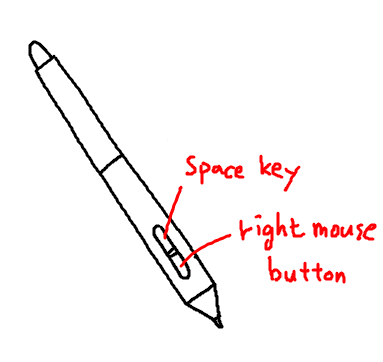
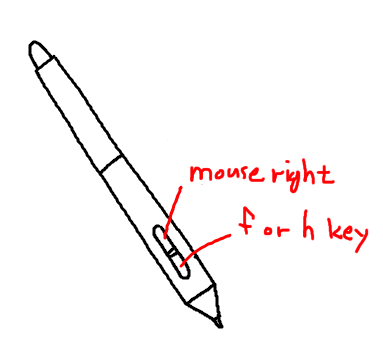
upd9.3

Changed region(s): [[0.6031, 0.5773, 1.0, 0.7901], [0.4883, 0.4254, 0.8903, 0.547]]

diff --git a/jp.html b/jp.html
@@ -34,9 +34,9 @@
       <h2 id="c0">必要セッティング</h2><hr>
       ワコムドライバー設定のマッピングの<b>「デジタルイング機能を使う」のチェックを外してください。</b> これをしないと線を描くのが少し変になります。<br>
       ワコム以外のタブレットにはテストしていません。<br>
-      まず、タブレットのペンのボタンの設定を下の画像のようにしてください。<br>
-      マウス右クリック操作に最適化しています。<p></p>
+      下の画像はタブレットのペンのボタンのおすすめ設定です。<br>
       <img src="img/pensetting_jp.png"><p></p>
+  
 
       <h2 id="c1">ツールの選択方法</h2><hr>
       マウス右ボタンを押すとツールメニューが現れます。<br>
@@ -67,65 +67,59 @@
         </tr>
         <tr>
           <td class="tg-0pky"><b class="tds">消しゴム</b></td>
-          <td class="tg-0pky"><kbd>D</kbd> - <kbd class="ls">J</kbd></td>
+          <td class="tg-0pky"><kbd>D</kbd> or <kbd class="ls">J</kbd></td>
           <td class="tg-0pky"><b class="tds">Lassoツール</b></td>
-          <td class="tg-0pky"><kbd>R</kbd> - <kbd class="ls">Y</kbd></td>
+          <td class="tg-0pky"><kbd>R</kbd> or <kbd class="ls">Y</kbd></td>
         </tr>
         <tr>
           <td class="tg-0pky"><b class="tds">消しゴムー直線ツール</b></td>
-          <td class="tg-0pky"><kbd class="ns">Shift</kbd>+<kbd>D</kbd> - <kbd class="ls">J</kbd></td>
+          <td class="tg-0pky"><kbd class="ns">Shift</kbd>+<kbd>D</kbd> or <kbd class="ls">J</kbd></td>
           <td class="tg-0pky"><b class="tds">直線ツール</b></td>
           <td class="tg-0pky"><kbd class="ns">Shift</kbd></td>
         </tr>
         <tr>
-          <td class="tg-0pky"><b class="tds">消しゴムサイズの調節</b></td>
-          <td class="tg-0pky"><kbd>D</kbd> + <kbd>F</kbd>, <kbd>V</kbd> - <kbd class="ls">J</kbd> + <kbd class="ls">H</kbd>, <kbd class="ls">N</kbd></td>
-          <td class="tg-0pky"><b class="tds">ペンサイズの調節</b></td>
-          <td class="tg-0pky"><kbd>F</kbd>, <kbd>V</kbd> - <kbd class="ls">H</kbd>, <kbd class="ls">N</kbd></td>
-        </tr>
-        <tr>
-          <td class="tg-0pky"><b class="tds">消しゴム透明度の調節</b></td>
-          <td class="tg-0pky"><kbd>D</kbd> - <kbd class="ls">J</kbd> + <kbd class="ns">G</kbd>&nbsp; <kbd class="ns">B</kbd></td>
-          <td class="tg-0pky"><b class="tds">ペンの透明度調節</b></td>
-          <td class="tg-0pky"><kbd class="ns">G</kbd>&nbsp; <kbd class="ns">B</kbd></td>
+          <td class="tg-0pky"><b class="tds">Pen Option窓をカーソルに移動 / 位置リセット</b></td>
+          <td class="tg-0pky"><kbd>F</kbd> or <kbd class="ls">H</kbd></td>
+          <td class="tg-0pky"></td>
+          <td class="tg-0pky"></td>
         </tr>
         <tr>
           <td class="tg-0pky"><b class="tds">ズームツール</b></td>
-          <td class="tg-0pky"><kbd>W</kbd> - <kbd class="ls">I</kbd></td>
+          <td class="tg-0pky"><kbd>W</kbd> or <kbd class="ls">I</kbd></td>
           <td class="tg-0pky"><b class="tds">キャンバス移動</b></td>
           <td class="tg-0pky"><kbd class="ns class="ns"">Space</kbd></td>
         </tr>
         <tr>
           <td class="tg-0pky"><b class="tds">キャンバス左右反転</b></td>
-          <td class="tg-0pky"><kbd>A</kbd> - <kbd class="ls">L</kbd></td>
+          <td class="tg-0pky"><kbd>A</kbd> or <kbd class="ls">L</kbd></td>
           <td class="tg-0pky"><b class="tds">キャンバス回転</b></td>
-          <td class="tg-0pky"><kbd>S</kbd> - <kbd class="ls">K</kbd></td>
+          <td class="tg-0pky"><kbd>S</kbd> or <kbd class="ls">K</kbd></td>
         </tr>
         <tr>
         </tr>
         <tr>
-          <td class="tg-0pky"><b class="tds">色選択窓ON/OFF</b></td>
-          <td class="tg-0pky"><kbd>Q</kbd> - <kbd class="ls">O</kbd></td>
+          <td class="tg-0pky"><b class="tds">色塗りペン</b></td>
+          <td class="tg-0pky"><kbd>V</kbd> or <kbd class="ls">N</kbd></td>
           <td class="tg-0pky"><b class="tds">イメージ移動</b></td>
-          <td class="tg-0pky"><kbd>E</kbd> - <kbd class="ls">Y</kbd></td>
+          <td class="tg-0pky"><kbd>E</kbd> or <kbd class="ls">Y</kbd></td>
         </tr>
         <tr>
           <td class="tg-0pky"><b class="tds">スポイトツール</b></td>
-          <td class="tg-0pky"><kbd>C</kbd> - <kbd class="ls">M</kbd></td>
+          <td class="tg-0pky"><kbd>C</kbd> or <kbd class="ls">M</kbd></td>
           <td class="tg-0pky"></td>
           <td class="tg-0pky"></td>
         </tr>
         <tr>
           <td class="tg-0pky"><b class="tds">Undo</b></td>
-          <td class="tg-0pky"><kbd>Z</kbd> - <kbd class="ls">.</kbd></td>
+          <td class="tg-0pky"><kbd>Z</kbd> or <kbd class="ls">.</kbd></td>
           <td class="tg-0pky"><b class="tds">Draw　Mode</b></td>
-            <td class="tg-0pky"><kbd>1</kbd> - <kbd class="ls">7</kbd></td>
+            <td class="tg-0pky"><kbd>1</kbd> or <kbd class="ls">7</kbd></td>
         </tr>
         <tr>
           <td class="tg-0pky"><b class="tds">Redo</b></td>
-          <td class="tg-0pky"><kbd>X</kbd> - <kbd class="ls">,</kbd></td>
+          <td class="tg-0pky"><kbd>X</kbd> or <kbd class="ls">,</kbd></td>
           <td class="tg-0pky"><b class="tds">リプレイモード</b></td>
-          <td class="tg-0pky"><kbd>2</kbd> - <kbd class="ls">8</kbd></td>
+          <td class="tg-0pky"><kbd>2</kbd> or <kbd class="ls">8</kbd></td>
         </tr>
         <tr>
           <td class="tg-0pky"><b class="tds">セーブ</b></td>
@@ -137,19 +131,19 @@
           <td class="tg-0pky"><b class="tds">新しいファイル名でセーブ</b></td>
           <td class="tg-0pky"><kbd class="ns">Ctrl</kbd>+<kbd class="ns">Shift</kbd>+<kbd class="ns">S</kbd></td>
           <td class="tg-0pky"><b class="tds">再生速度調節</b></td>
-          <td class="tg-0pky"><kbd class="ns">&uarr;</kbd>&nbsp; <kbd class="ns">&darr;</kbd></td>
+          <td class="tg-0pky"><kbd class="ns">&uarr;</kbd>, <kbd class="ns">&darr;</kbd></td>
         </tr>
         <tr>
           <td class="tg-0pky"><b class="tds">キャプチャーモード</b></td>
           <td class="tg-0pky"><kbd class="ns">Alt</kbd>+<kbd class="ns">S</kbd></td>
           <td class="tg-0pky"><b class="tds">ストローク単位で探索</b></td>
-          <td class="tg-0pky"><kbd class="ns">&larr;</kbd>&nbsp; <kbd class="ns">&rarr;</kbd></td>
+          <td class="tg-0pky"><kbd class="ns">&larr;</kbd>, <kbd class="ns">&rarr;</kbd></td>
         </tr>
         <tr>
           <td class="tg-0pky"><b class="tds">ファイル読み込み</b></td>
           <td class="tg-0pky"><kbd class="ns">Ctrl</kbd>+<kbd class="ns">O</kbd></td>
           <td class="tg-0pky"><b class="tds">1フレーム単位で探索</b></td>
-          <td class="tg-0pky"><kbd class="ns">Shift</kbd>+<kbd class="ns">&larr;</kbd>&nbsp; <kbd class="ns">&rarr;</kbd></td>
+          <td class="tg-0pky"><kbd class="ns">Shift</kbd>+<kbd class="ns">&larr;</kbd>, <kbd class="ns">&rarr;</kbd></td>
         </tr>
         <tr>
           <td class="tg-0pky"><b class="tds">参考レイヤにファイル読み込み</b></td>
@@ -264,8 +258,9 @@
       このボタンを３回押すと, 筆跡データと描いたイメージを消します。<br>
       ショートカットキー ESCを 3回押しても同じです。</p>
 
-      [7] ツールメボックスON/OFF<br>
-      ONした場合普通クリックでツールを選択します。キャンバス移動はClick+Dragです。<p></p>
+      [7] ツールボックスON<br>
+      ツールボックスとペンオプション窓を出します。<br>
+      キャンバス移動はツールボックスをClick+Dragです。<p></p>
 
       <img src="img/topbar.png"><p></p>
 

diff --git a/kr.html b/kr.html
@@ -34,8 +34,7 @@
       <h2 id="c0">필수 세팅</h2><hr>
       와콤 드라이버 설정 창을 열고 맵핑 탭의 <b>"Windows 잉크 사용" 체크를 해제해 주세요</b>, 사용 시 선이 이상하게 그어집니다.<br>
       와콤 이외의 타블렛에서는 테스트되지 않았습니다.<br>
-      타블렛 펜 버튼 설정을 아래 그림처럼 마우스 오른쪽 버튼과, 스페이스 키로 바꾸어 주세요.<br>
-      마우스 오른쪽 클릭 조작에 최적화 되어있습니다.<p></p>
+      타블렛 펜 버튼 설정을 아래 그림과 같이 하는 것을 추천합니다.<br>
       <img src="img/pensetting_kr.png"><p></p>
 
       <h2 id="c1">툴 선택 방법</h2><hr>
@@ -68,65 +67,59 @@
         </tr>
         <tr>
           <td class="tg-0pky"><b class="tds">지우개 툴</b></td>
-          <td class="tg-0pky"><kbd>D</kbd> - <kbd class="ls">J</kbd></td>
+          <td class="tg-0pky"><kbd>D</kbd> 또는 <kbd class="ls">J</kbd></td>
           <td class="tg-0pky"><b class="tds">라소 툴</b></td>
-          <td class="tg-0pky"><kbd>R</kbd> - <kbd class="ls">Y</kbd></td>
+          <td class="tg-0pky"><kbd>R</kbd> 또는 <kbd class="ls">Y</kbd></td>
         </tr>
         <tr>
           <td class="tg-0pky"><b class="tds">지우개-직선 툴</b></td>
-          <td class="tg-0pky"><kbd class="ns">Shift</kbd>+<kbd>D</kbd> - <kbd class="ls">J</kbd></td>
+          <td class="tg-0pky"><kbd class="ns">Shift</kbd>+<kbd>D</kbd> 또는 <kbd class="ls">J</kbd></td>
           <td class="tg-0pky"><b class="tds">직선 툴</b></td>
           <td class="tg-0pky"><kbd class="ns">Shift</kbd></td>
         </tr>
         <tr>
-          <td class="tg-0pky"><b class="tds">지우개 크기 조절</b></td>
-          <td class="tg-0pky"><kbd>D</kbd> + <kbd>F</kbd>, <kbd>V</kbd> - <kbd class="ls">J</kbd> + <kbd class="ls">H</kbd>, <kbd class="ls">N</kbd></td>
-          <td class="tg-0pky"><b class="tds">펜 크기 조절</b></td>
-          <td class="tg-0pky"><kbd>F</kbd>, <kbd>V</kbd> - <kbd class="ls">H</kbd>, <kbd class="ls">N</kbd></td>
-        </tr>
-        <tr>
-          <td class="tg-0pky"><b class="tds">지우개 투명도 조절</b></td>
-          <td class="tg-0pky"><kbd>D</kbd> - <kbd class="ls">J</kbd> + <kbd class="ns">G</kbd>&nbsp; <kbd class="ns">B</kbd></td>
-          <td class="tg-0pky"><b class="tds">펜 투명도 조절</b></td>
-          <td class="tg-0pky"><kbd class="ns">G</kbd>&nbsp; <kbd class="ns">B</kbd></td>
+          <td class="tg-0pky"><b class="tds">펜 옵션창을 커서로 이동/복귀</b></td>
+          <td class="tg-0pky"><kbd>F</kbd> 또는 <kbd class="ls">H</kbd></td>
+          <td class="tg-0pky"></td>
+          <td class="tg-0pky"></td>
         </tr>
         <tr>
           <td class="tg-0pky"><b class="tds">캔버스 확대/축소</b></td>
-          <td class="tg-0pky"><kbd>W</kbd> - <kbd class="ls">I</kbd></td>
+          <td class="tg-0pky"><kbd>W</kbd> 또는 <kbd class="ls">I</kbd></td>
           <td class="tg-0pky"><b class="tds">캔버스 이동</b></td>
           <td class="tg-0pky"><kbd class="ns class="ns"">Space</kbd></td>
         </tr>
         <tr>
           <td class="tg-0pky"><b class="tds">캔버스 좌우 반전</b></td>
-          <td class="tg-0pky"><kbd>A</kbd> - <kbd class="ls">L</kbd></td>
+          <td class="tg-0pky"><kbd>A</kbd> 또는 <kbd class="ls">L</kbd></td>
           <td class="tg-0pky"><b class="tds">캔버스 회전</b></td>
-          <td class="tg-0pky"><kbd>S</kbd> - <kbd class="ls">K</kbd></td>
+          <td class="tg-0pky"><kbd>S</kbd> 또는 <kbd class="ls">K</kbd></td>
         </tr>
         <tr>
         </tr>
         <tr>
-          <td class="tg-0pky"><b class="tds">색깔 선택 창 열기/닫기</b></td>
-          <td class="tg-0pky"><kbd>Q</kbd> - <kbd class="ls">O</kbd></td>
+          <td class="tg-0pky"><b class="tds">채우기 펜</b></td>
+          <td class="tg-0pky"><kbd>V</kbd> 또는 <kbd class="ls">N</kbd></td>
           <td class="tg-0pky"><b class="tds">캔버스 이미지 이동</b></td>
-          <td class="tg-0pky"><kbd>E</kbd> - <kbd class="ls">Y</kbd></td>
+          <td class="tg-0pky"><kbd>E</kbd> 또는 <kbd class="ls">Y</kbd></td>
         </tr>
         <tr>
           <td class="tg-0pky"><b class="tds">색깔 선택 툴</b></td>
-          <td class="tg-0pky"><kbd>C</kbd> - <kbd class="ls">M</kbd></td>
+          <td class="tg-0pky"><kbd>C</kbd> 또는 <kbd class="ls">M</kbd></td>
           <td class="tg-0pky"></td>
           <td class="tg-0pky"></td>
         </tr>
         <tr>
           <td class="tg-0pky"><b class="tds">작업취소</b></td>
-          <td class="tg-0pky"><kbd>Z</kbd> - <kbd class="ls">.</kbd></td>
+          <td class="tg-0pky"><kbd>Z</kbd> 또는 <kbd class="ls">.</kbd></td>
           <td class="tg-0pky"><b class="tds">그리기 모드</b></td>
-            <td class="tg-0pky"><kbd>1</kbd> - <kbd class="ls">7</kbd></td>
+            <td class="tg-0pky"><kbd>1</kbd> 또는 <kbd class="ls">7</kbd></td>
         </tr>
         <tr>
           <td class="tg-0pky"><b class="tds">되돌리기</b></td>
-          <td class="tg-0pky"><kbd>X</kbd> - <kbd class="ls">,</kbd></td>
+          <td class="tg-0pky"><kbd>X</kbd> 또는 <kbd class="ls">,</kbd></td>
           <td class="tg-0pky"><b class="tds">리플레이 모드</b></td>
-          <td class="tg-0pky"><kbd>2</kbd> - <kbd class="ls">8</kbd></td>
+          <td class="tg-0pky"><kbd>2</kbd> 또는 <kbd class="ls">8</kbd></td>
         </tr>
         <tr>
           <td class="tg-0pky"><b class="tds">파일 저장</b></td>
@@ -138,19 +131,19 @@
           <td class="tg-0pky"><b class="tds">다른이름으로 저장</b></td>
           <td class="tg-0pky"><kbd class="ns">Ctrl</kbd>+<kbd class="ns">Shift</kbd>+<kbd class="ns">S</kbd></td>
           <td class="tg-0pky"><b class="tds">재생속도 조절</b></td>
-          <td class="tg-0pky"><kbd class="ns">&uarr;</kbd>&nbsp; <kbd class="ns">&darr;</kbd></td>
+          <td class="tg-0pky"><kbd class="ns">&uarr;</kbd>,  <kbd class="ns">&darr;</kbd></td>
         </tr>
         <tr>
           <td class="tg-0pky"><b class="tds">캡쳐 모드</b></td>
           <td class="tg-0pky"><kbd class="ns">Alt</kbd>+<kbd class="ns">S</kbd></td>
           <td class="tg-0pky"><b class="tds">스트로크 단위로 프레임 탐색</b></td>
-          <td class="tg-0pky"><kbd class="ns">&larr;</kbd>&nbsp; <kbd class="ns">&rarr;</kbd></td>
+          <td class="tg-0pky"><kbd class="ns">&larr;</kbd>,  <kbd class="ns">&rarr;</kbd></td>
         </tr>
         <tr>
           <td class="tg-0pky"><b class="tds">파일 불러오기</b></td>
           <td class="tg-0pky"><kbd class="ns">Ctrl</kbd>+<kbd class="ns">O</kbd></td>
           <td class="tg-0pky"><b class="tds">1프레임 단위로 프레임 탐색</b></td>
-          <td class="tg-0pky"><kbd class="ns">Shift</kbd>+<kbd class="ns">&larr;</kbd>&nbsp; <kbd class="ns">&rarr;</kbd></td>
+          <td class="tg-0pky"><kbd class="ns">Shift</kbd>+<kbd class="ns">&larr;</kbd>,  <kbd class="ns">&rarr;</kbd></td>
         </tr>
         <tr>
           <td class="tg-0pky"><b class="tds">참고 레이어로 파일 불러오기</b></td>
@@ -266,8 +259,9 @@
       버튼을 3번 연속해서 누르면, 녹화된 리플레이 데이터와, 이미지를 지웁니다.<br>
       단축키 ESC를 3번 눌러도 지워집니다.<p></p>
 
-      [7] 툴 박스 켜기/끄기<br>
-      툴 선택은 보통 클릭입니다. 캔버스 이동은 툴박스를 클릭+드래그 하세요.<p></p>
+      [7] 툴 박스 켜기<br>
+      툴 박스와, 펜 옵션 박스를 켭니다.<br>
+      툴박스를 클릭+드래그 하면 캔버스 이동가 이동됩니다. <p></p>
       
       <img src="img/topbar.png"><p></p>
 

diff --git a/en.html b/en.html
@@ -35,7 +35,7 @@
       <h2 id="c0">Wacom driver settings</h2><hr>
       <b>Uncheck “Use Windows ink" function</b> on Wacom driver's mapping tap.<br>
       If you using non-wacom tablet. I'm not sure it is working correctly.<p></p>
-      Set the tablet pen button settings as shown below image.<br>
+      Recommand set the tablet pen button settings as shown below image.<br>
 
       <img src="img/pensetting_en.png"><p></p>
 
@@ -69,65 +69,59 @@
         </tr>
         <tr>
           <td class="tg-0pky"><b class="tds">Erase</b></td>
-          <td class="tg-0pky"><kbd>D</kbd> - <kbd class="ls">J</kbd></td>
+          <td class="tg-0pky"><kbd>D</kbd> or <kbd class="ls">J</kbd></td>
           <td class="tg-0pky"><b class="tds">Lasso tool</b></td>
-          <td class="tg-0pky"><kbd>R</kbd> - <kbd class="ls">Y</kbd></td>
+          <td class="tg-0pky"><kbd>R</kbd> or <kbd class="ls">Y</kbd></td>
         </tr>
         <tr>
           <td class="tg-0pky"><b class="tds">Erase-line tool</b></td>
-          <td class="tg-0pky"><kbd class="ns">Shift</kbd>+<kbd>D</kbd> - <kbd class="ls">J</kbd></td>
+          <td class="tg-0pky"><kbd class="ns">Shift</kbd>+<kbd>D</kbd> or <kbd class="ls">J</kbd></td>
           <td class="tg-0pky"><b class="tds">Line tool</b></td>
           <td class="tg-0pky"><kbd class="ns">Shift</kbd></td>
         </tr>
         <tr>
-          <td class="tg-0pky"><b class="tds">Adjust erase size</b></td>
-          <td class="tg-0pky"><kbd>D</kbd> + <kbd>F</kbd>, <kbd>V</kbd> - <kbd class="ls">J</kbd> + <kbd class="ls">H</kbd>, <kbd class="ls">N</kbd></td>
-          <td class="tg-0pky"><b class="tds">Adjust pen size</b></td>
-          <td class="tg-0pky"><kbd>F</kbd>, <kbd>V</kbd> - <kbd class="ls">H</kbd>, <kbd class="ls">N</kbd></td>
-        </tr>
-        <tr>
-          <td class="tg-0pky"><b class="tds">Adjust erase opacity</b></td>
-          <td class="tg-0pky"><kbd>D</kbd> - <kbd class="ls">J</kbd> + <kbd class="ns">G</kbd>&nbsp; <kbd class="ns">B</kbd></td>
-          <td class="tg-0pky"><b class="tds">Adjust pen opacity</b></td>
-          <td class="tg-0pky"><kbd class="ns">G</kbd>&nbsp; <kbd class="ns">B</kbd></td>
+          <td class="tg-0pky"><b class="tds">Move pen option to cursor / reset</b></td>
+          <td class="tg-0pky"><kbd>F</kbd> or <kbd class="ls">H</kbd></td>
+          <td class="tg-0pky"></td>
+          <td class="tg-0pky"></td>
         </tr>
         <tr>
           <td class="tg-0pky"><b class="tds">Zoom tool</b></td>
-          <td class="tg-0pky"><kbd>W</kbd> - <kbd class="ls">I</kbd></td>
+          <td class="tg-0pky"><kbd>W</kbd> or <kbd class="ls">I</kbd></td>
           <td class="tg-0pky"><b class="tds">Move canvas</b></td>
           <td class="tg-0pky"><kbd class="ns class="ns"">Space</kbd></td>
         </tr>
         <tr>
           <td class="tg-0pky"><b class="tds">Flip canvas horizontal</b></td>
-          <td class="tg-0pky"><kbd>A</kbd> - <kbd class="ls">L</kbd></td>
+          <td class="tg-0pky"><kbd>A</kbd> or <kbd class="ls">L</kbd></td>
           <td class="tg-0pky"><b class="tds">Rotae canvas</b></td>
-          <td class="tg-0pky"><kbd>S</kbd> - <kbd class="ls">K</kbd></td>
+          <td class="tg-0pky"><kbd>S</kbd> or <kbd class="ls">K</kbd></td>
         </tr>
         <tr>
         </tr>
         <tr>
-          <td class="tg-0pky"><b class="tds">Color picker ON/OFF</b></td>
-          <td class="tg-0pky"><kbd>Q</kbd> - <kbd class="ls">O</kbd></td>
+          <td class="tg-0pky"><b class="tds">Fill pen</b></td>
+          <td class="tg-0pky"><kbd>V</kbd> or <kbd class="ls">N</kbd></td>
           <td class="tg-0pky"><b class="tds">Move image</b></td>
-          <td class="tg-0pky"><kbd>E</kbd> - <kbd class="ls">Y</kbd></td>
+          <td class="tg-0pky"><kbd>E</kbd> or <kbd class="ls">Y</kbd></td>
         </tr>
         <tr>
           <td class="tg-0pky"><b class="tds">Eye-dropper</b></td>
-          <td class="tg-0pky"><kbd>C</kbd> - <kbd class="ls">M</kbd></td>
+          <td class="tg-0pky"><kbd>C</kbd> or <kbd class="ls">M</kbd></td>
           <td class="tg-0pky"></td>
           <td class="tg-0pky"></td>
         </tr>
         <tr>
           <td class="tg-0pky"><b class="tds">Undo</b></td>
-          <td class="tg-0pky"><kbd>Z</kbd> - <kbd class="ls">.</kbd></td>
+          <td class="tg-0pky"><kbd>Z</kbd> or <kbd class="ls">.</kbd></td>
           <td class="tg-0pky"><b class="tds">Draw mode</b></td>
-            <td class="tg-0pky"><kbd>1</kbd> - <kbd class="ls">7</kbd></td>
+            <td class="tg-0pky"><kbd>1</kbd> or <kbd class="ls">7</kbd></td>
         </tr>
         <tr>
           <td class="tg-0pky"><b class="tds">Redo</b></td>
-          <td class="tg-0pky"><kbd>X</kbd> - <kbd class="ls">,</kbd></td>
+          <td class="tg-0pky"><kbd>X</kbd> or <kbd class="ls">,</kbd></td>
           <td class="tg-0pky"><b class="tds">Replay mode</b></td>
-          <td class="tg-0pky"><kbd>2</kbd> - <kbd class="ls">8</kbd></td>
+          <td class="tg-0pky"><kbd>2</kbd> or <kbd class="ls">8</kbd></td>
         </tr>
         <tr>
           <td class="tg-0pky"><b class="tds">Save</b></td>
@@ -139,19 +133,19 @@
           <td class="tg-0pky"><b class="tds">Save as..</b></td>
           <td class="tg-0pky"><kbd class="ns">Ctrl</kbd>+<kbd class="ns">Shift</kbd>+<kbd class="ns">S</kbd></td>
           <td class="tg-0pky"><b class="tds">Adjust playback speed</b></td>
-          <td class="tg-0pky"><kbd class="ns">&uarr;</kbd>&nbsp; <kbd class="ns">&darr;</kbd></td>
+          <td class="tg-0pky"><kbd class="ns">&uarr;</kbd>,  <kbd class="ns">&darr;</kbd></td>
         </tr>
         <tr>
           <td class="tg-0pky"><b class="tds">Capture mode</b></td>
           <td class="tg-0pky"><kbd class="ns">Alt</kbd>+<kbd class="ns">S</kbd></td>
           <td class="tg-0pky"><b class="tds">Search frames by stroke</b></td>
-          <td class="tg-0pky"><kbd class="ns">&larr;</kbd>&nbsp; <kbd class="ns">&rarr;</kbd></td>
+          <td class="tg-0pky"><kbd class="ns">&larr;</kbd>,  <kbd class="ns">&rarr;</kbd></td>
         </tr>
         <tr>
           <td class="tg-0pky"><b class="tds">파일 불러오기</b></td>
           <td class="tg-0pky"><kbd class="ns">Ctrl</kbd>+<kbd class="ns">O</kbd></td>
           <td class="tg-0pky"><b class="tds">Search frames by 1 frame</b></td>
-          <td class="tg-0pky"><kbd class="ns">Shift</kbd>+<kbd class="ns">&larr;</kbd>&nbsp; <kbd class="ns">&rarr;</kbd></td>
+          <td class="tg-0pky"><kbd class="ns">Shift</kbd>+<kbd class="ns">&larr;</kbd>,  <kbd class="ns">&rarr;</kbd></td>
         </tr>
         <tr>
           <td class="tg-0pky"><b class="tds">load file to reference layer</b></td>
@@ -259,8 +253,9 @@
       Press this button 3 times to delete the replay-data and drawn image.<br>
       You can also press shortcut key ESC 3 times.</p>
 
-      [7] Tool-box ON/OFF <br>
-      Normal click to select tools. Click+Drag on toolBox to move canvas.<p></p>
+      [7] Tool-box ON <br>
+      Open tool-box and pen options window.<br>
+      Click+Drag on toolBox to move canvas.<p></p>
       
       <img src="img/topbar.png"><p></p>
 

diff --git a/index.html b/index.html
@@ -105,7 +105,7 @@
           *正式な証明書を使用していないので、SmartScreenやセキュリティの脅威警告が出てきますが、ウイルスはありません。<br>
           *it's not using a formal certificate, so you get SmartScreen and security threat warnings, but no viruses.<p></p>
         </p>
-        <p><a href="https://github.com/guljam/2020FlashPaint/releases/download/setup/fofoPaint_Setup.zip"><span>Windows (ver 9.26)</span></a> <span>/ Mac (need tester)</span></p>
+        <p><a href="https://github.com/guljam/2020FlashPaint/releases/download/setup/fofoPaint_Setup.zip"><span>Windows (ver 9.3)</span></a> <span>/ Mac (need tester)</span></p>
         <p><a href="releasenote.txt">release note</a></p>
         <img src="img/appscreenshot.png" width=500>
         <p></p>
